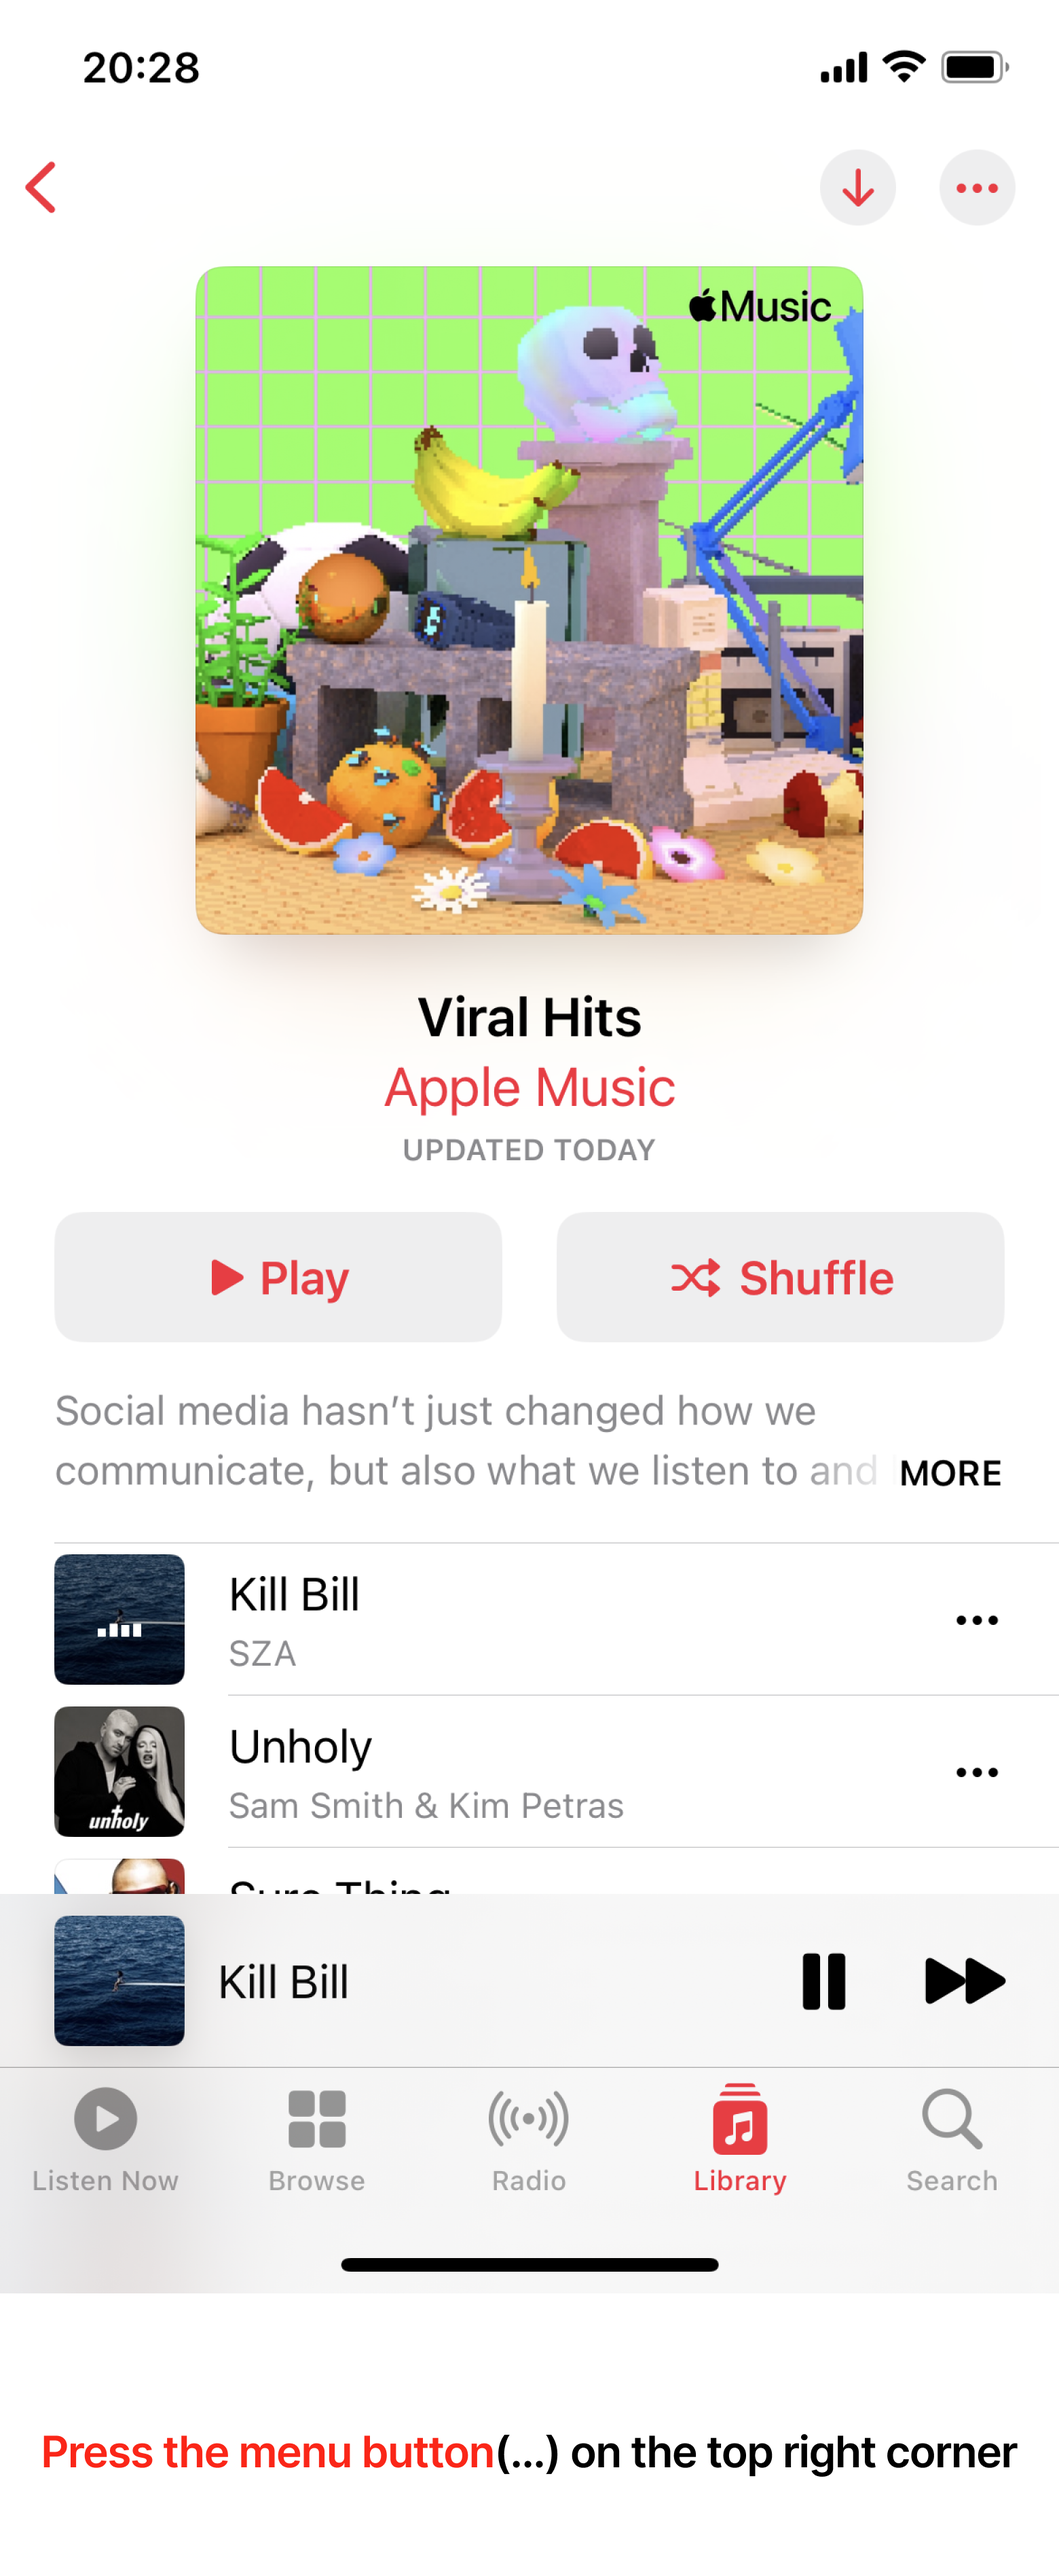
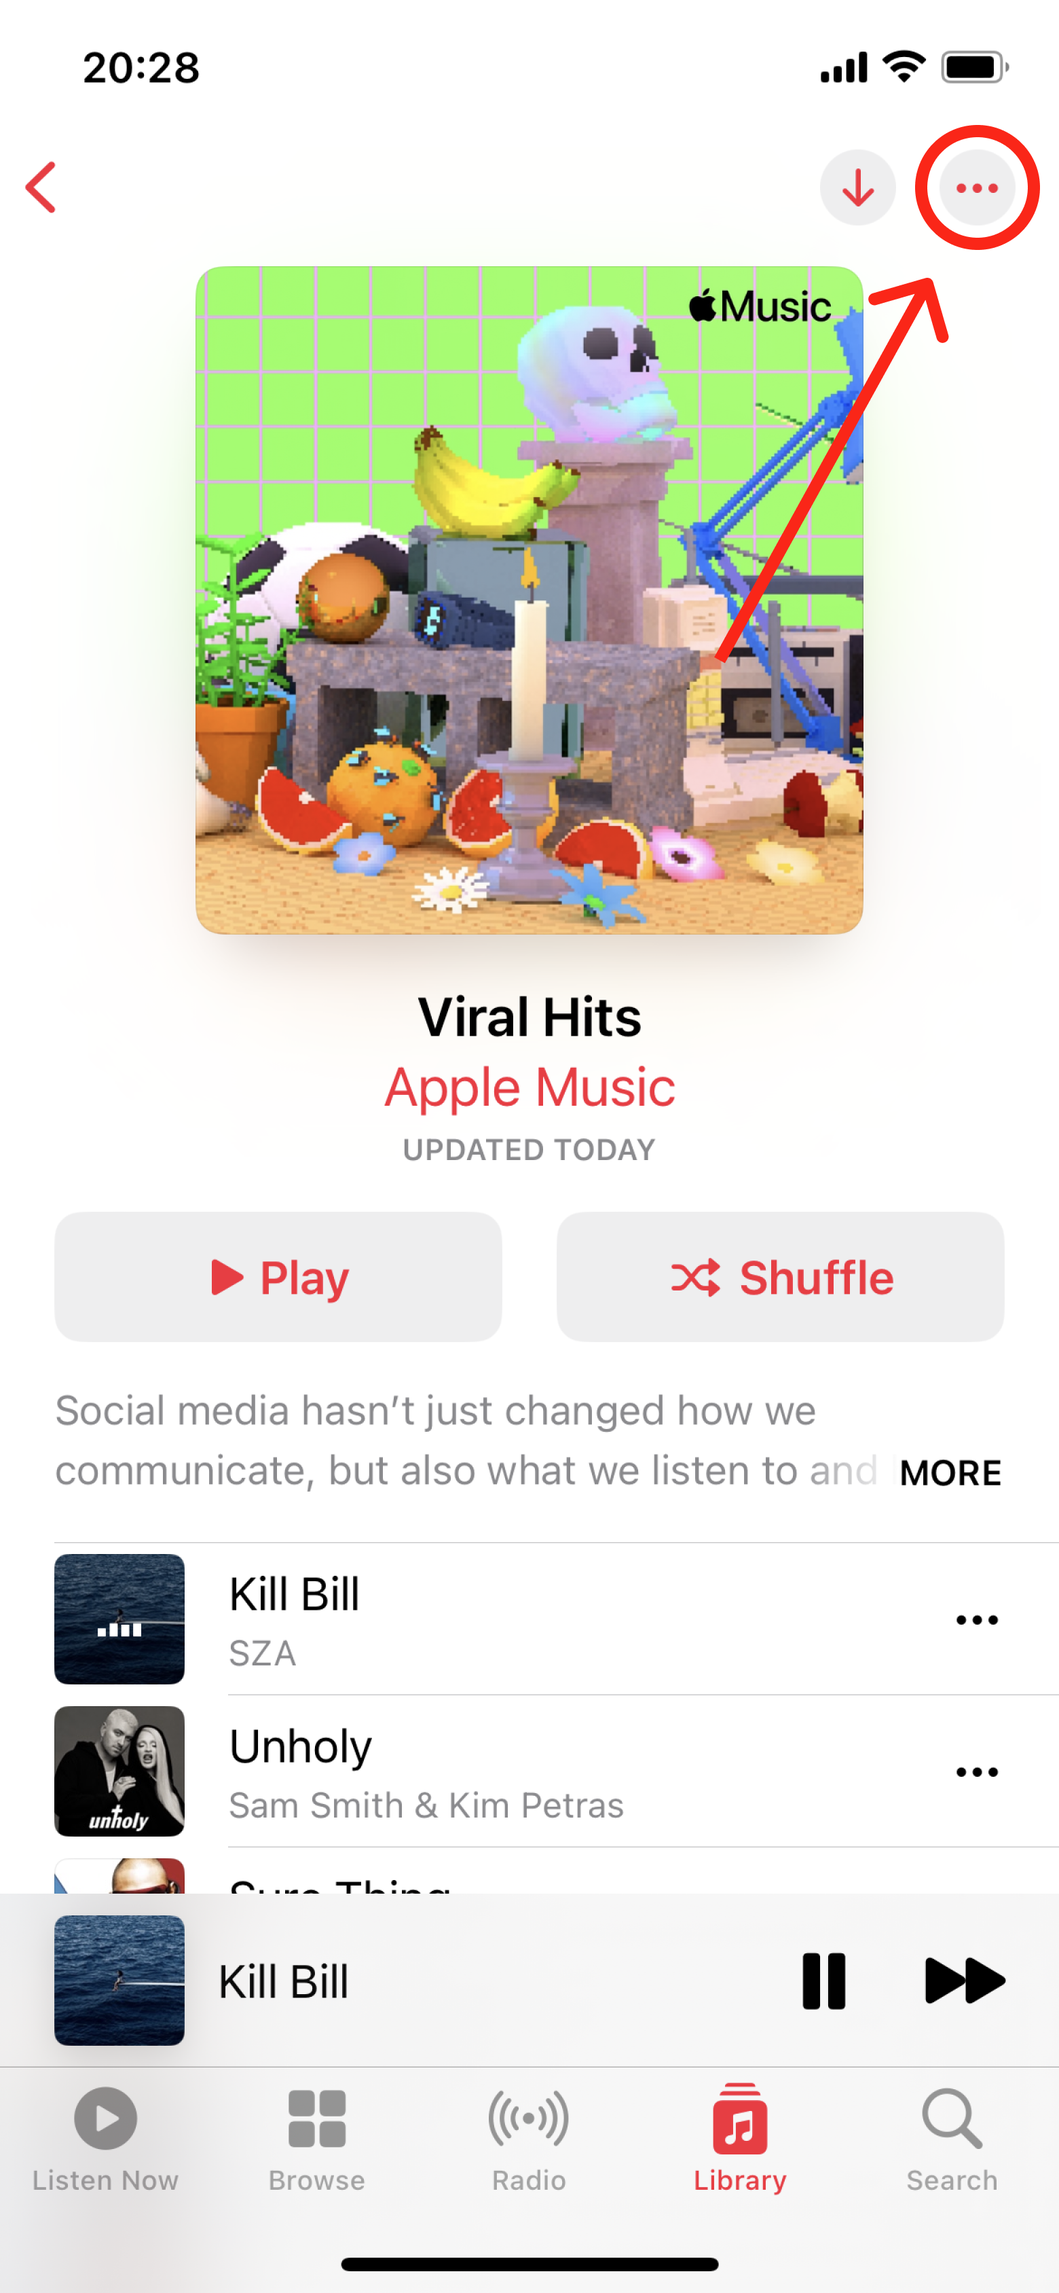
fix: guide page fix

diff --git a/pages/guide/[vendor]/index.tsx b/pages/guide/[vendor]/index.tsx
@@ -18,9 +18,19 @@ import SpotifyGuideImage3 from '../guideImages/spotify/spotify-3.png';
 const Guide=()=>{
     const router = useRouter();
     const { vendor } = router.query;
+    
 
-    const applemusicGuideImages : any[] = [ApplemusicGuideImage1, ApplemusicGuideImage2, ApplemusicGuideImage3];
-    const spotifyGuideImages : any[] = [SpotifyGuideImage1, SpotifyGuideImage2, SpotifyGuideImage3];
+    const ApplemusicGuideText : any[] = 
+      [<p className={styles.text}><span className={styles.red}>Press the menu button</span>(...) on the top right corner</p>,
+       <p className={styles.text}>Select <span className={styles.red}>Share Playlist...</span> from the menu</p>,
+       <p className={styles.text}>Select <span className={styles.red}>Copy</span> and you’re done!</p>]
+    const applemusicGuideImages : any[][] = [[ApplemusicGuideImage1, ApplemusicGuideText[0]], [ApplemusicGuideImage2, ApplemusicGuideText[1]], [ApplemusicGuideImage3, ApplemusicGuideText[2]]];
+    
+    const SpotifyGuideText : any[] = 
+      [<p className={styles.text}><span className={styles.red}>Press the menu button</span>(...) on the left</p>,
+       <p className={styles.text}>Select <span className={styles.red}>Share</span> from the menu</p>,
+       <p className={styles.text}>Select <span className={styles.red}>Copy link</span> and you’re done!</p>]
+    const spotifyGuideImages : any[][] = [[SpotifyGuideImage1, SpotifyGuideText[0]], [SpotifyGuideImage2, SpotifyGuideText[1]], [SpotifyGuideImage3, SpotifyGuideText[2]]];
 
     const settings = {
       dots: true,
@@ -29,6 +39,7 @@ const Guide=()=>{
       slidesToShow: 1,
       slidesToScroll: 1
     };
+
 
     const Wrap = styled.div`
       .slick-prev:before {
@@ -58,8 +69,8 @@ const Guide=()=>{
         position: relative;
         display: flex;
         width: 100%;
-        height: fit-content;
-        padding: 6% 6% 0% 6%;
+        height: 100%;
+        padding: 4% 4% 0% 4%;
       }
       `
 
@@ -68,16 +79,28 @@ const Guide=()=>{
         <StyledSlider {...settings} className={styles.slider}>
           {vendor==='applemusic' ? 
           applemusicGuideImages.map((image) => {
-            return <Image
-              src={image}
-              alt='applemusicGuideImage'
-              />
+            return <div className={styles.ImageWrapper}>
+              <div className={styles.guideImage}>
+                <Image
+                src={image[0]}
+                alt='applemusicGuideImage'
+                />
+              </div>
+              {image[1]}
+            </div>
           })
           : vendor==='spotify' ?
           spotifyGuideImages.map((image) => {
-            return <Image
-            src={image}
-            alt='spotifyGuideImage'/>
+            return <div className={styles.ImageWrapper}>
+              <div className={styles.guideImage}>
+                <Image
+                  src={image[0]}
+                  alt='spotifyGuideImage'
+                  className={styles.guideImage}
+                />
+              </div>
+              {image[1]}
+            </div>
           })
           :
           <div>

diff --git a/pages/guide/[vendor]/index.module.css b/pages/guide/[vendor]/index.module.css
@@ -5,7 +5,7 @@
 
   width: 100%;
   min-width: 280px;
-  max-width: 500px;
+  max-width: 700px;
   height: 100%;
   border: solid #e9e9e9;
   border-width: 0 1px;
@@ -22,4 +22,29 @@
   width: 100%;
   display: flex;
   height: fit-content;
+}
+
+.ImageWrapper{
+  width: 100%;
+  height: 100%;
+  display: flex;
+  flex-direction: column;
+  align-items: center;
+  justify-content: center;
+}
+
+.guideImage{
+  position: relative;
+  display: flex;
+  margin: 0% 10% 5% 10%
+}
+
+.text{
+  font-size: 24px;
+  font-weight: 550;
+  text-align: center;
+}
+
+.red{
+  color: red;
 }
